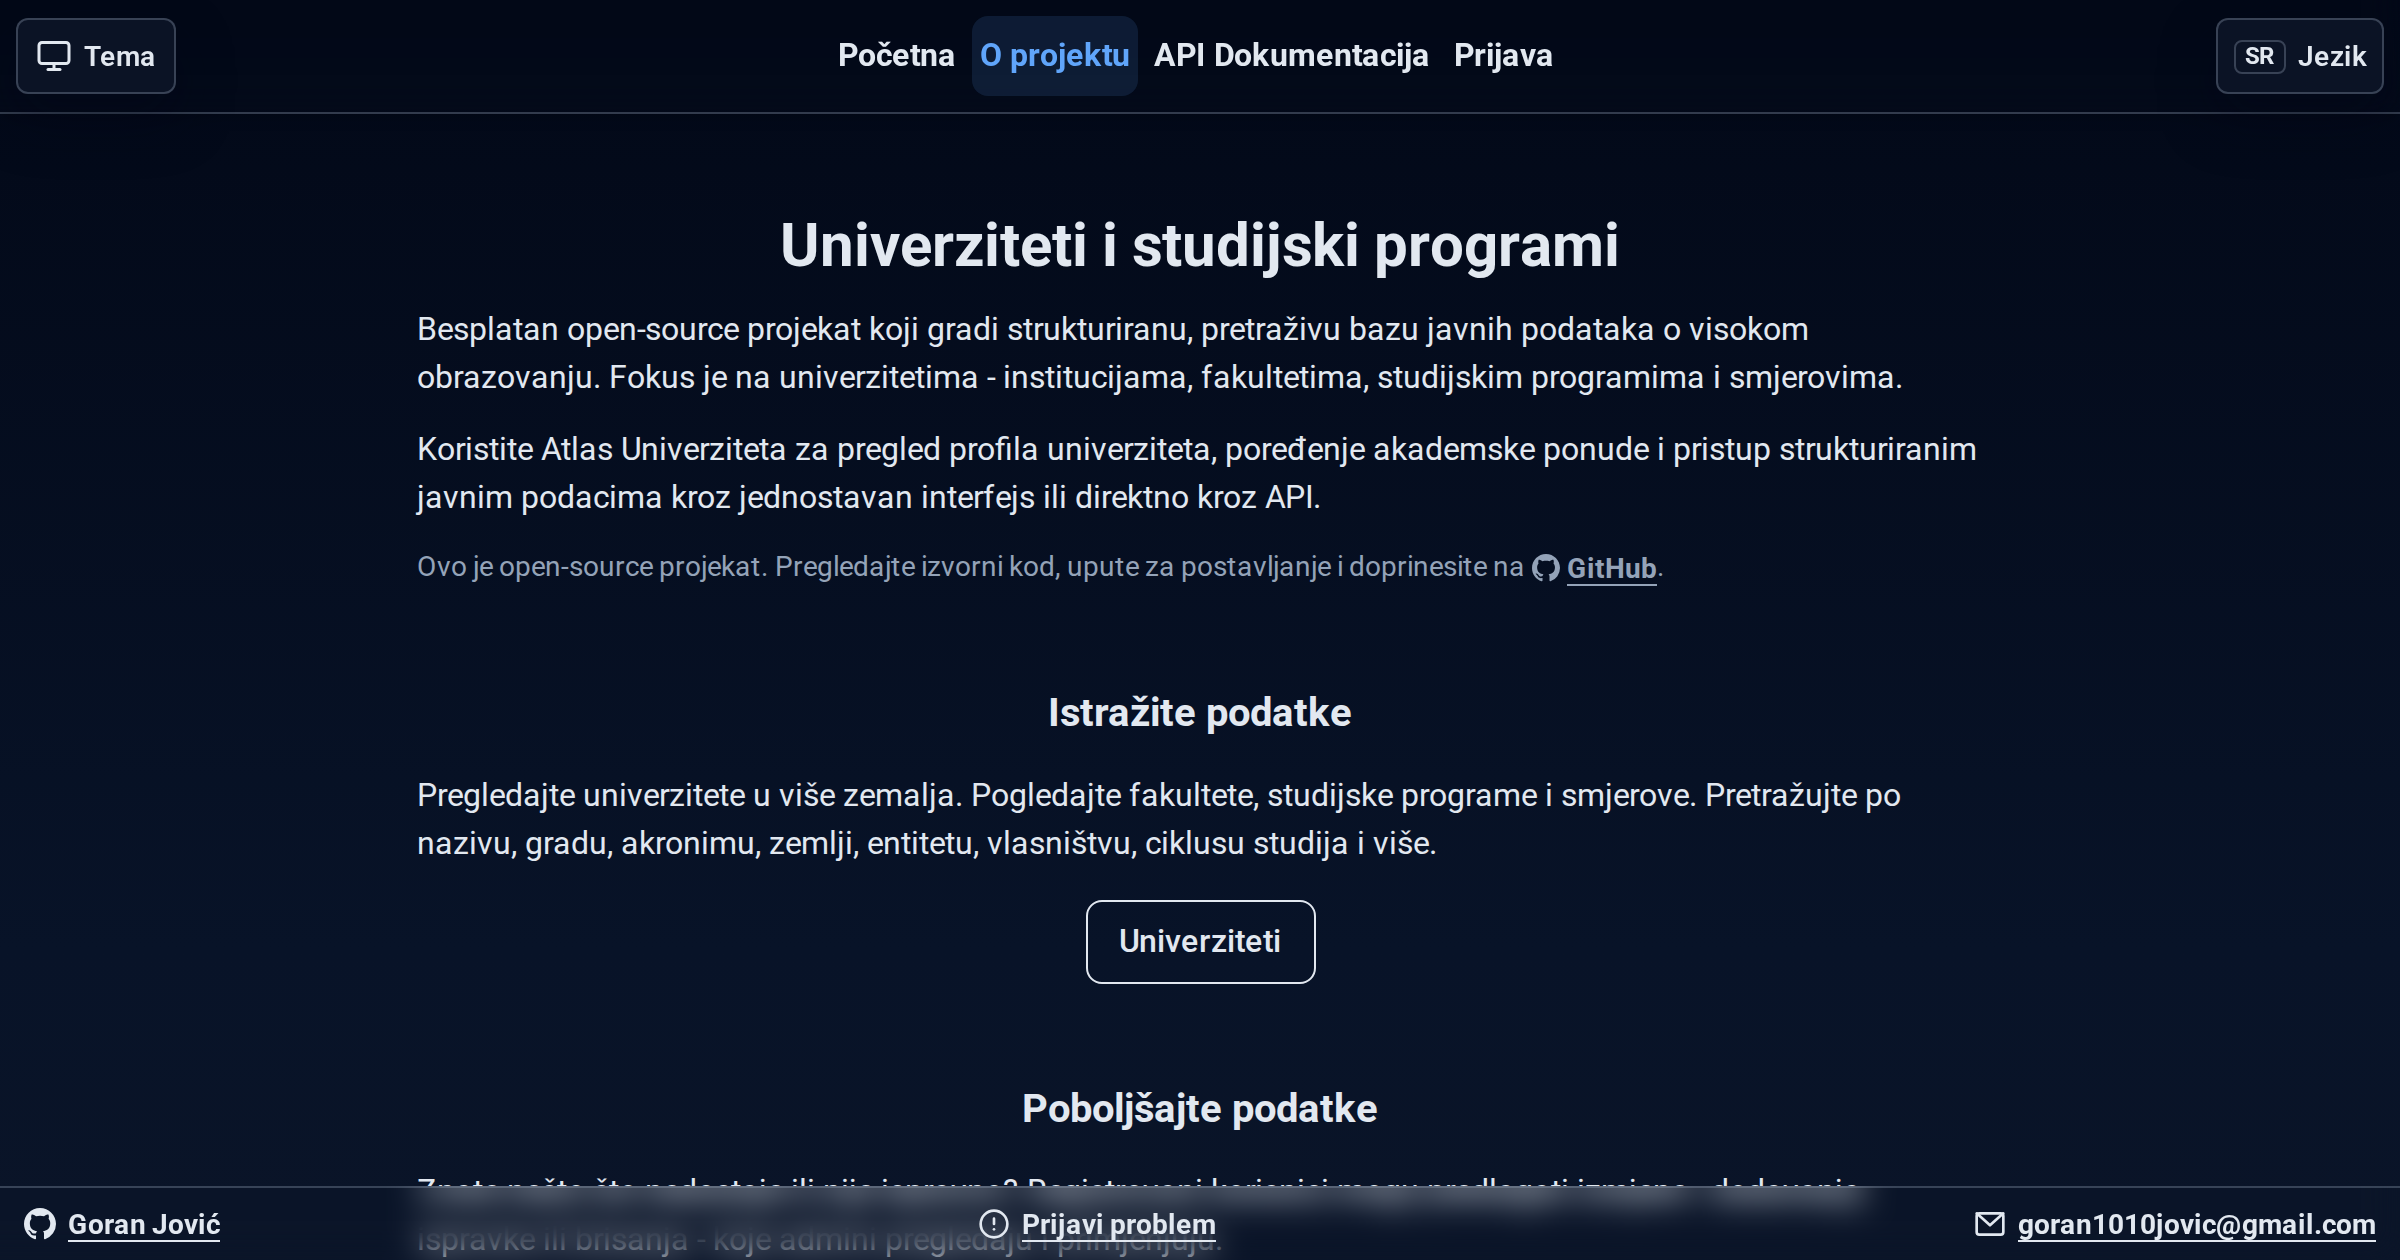
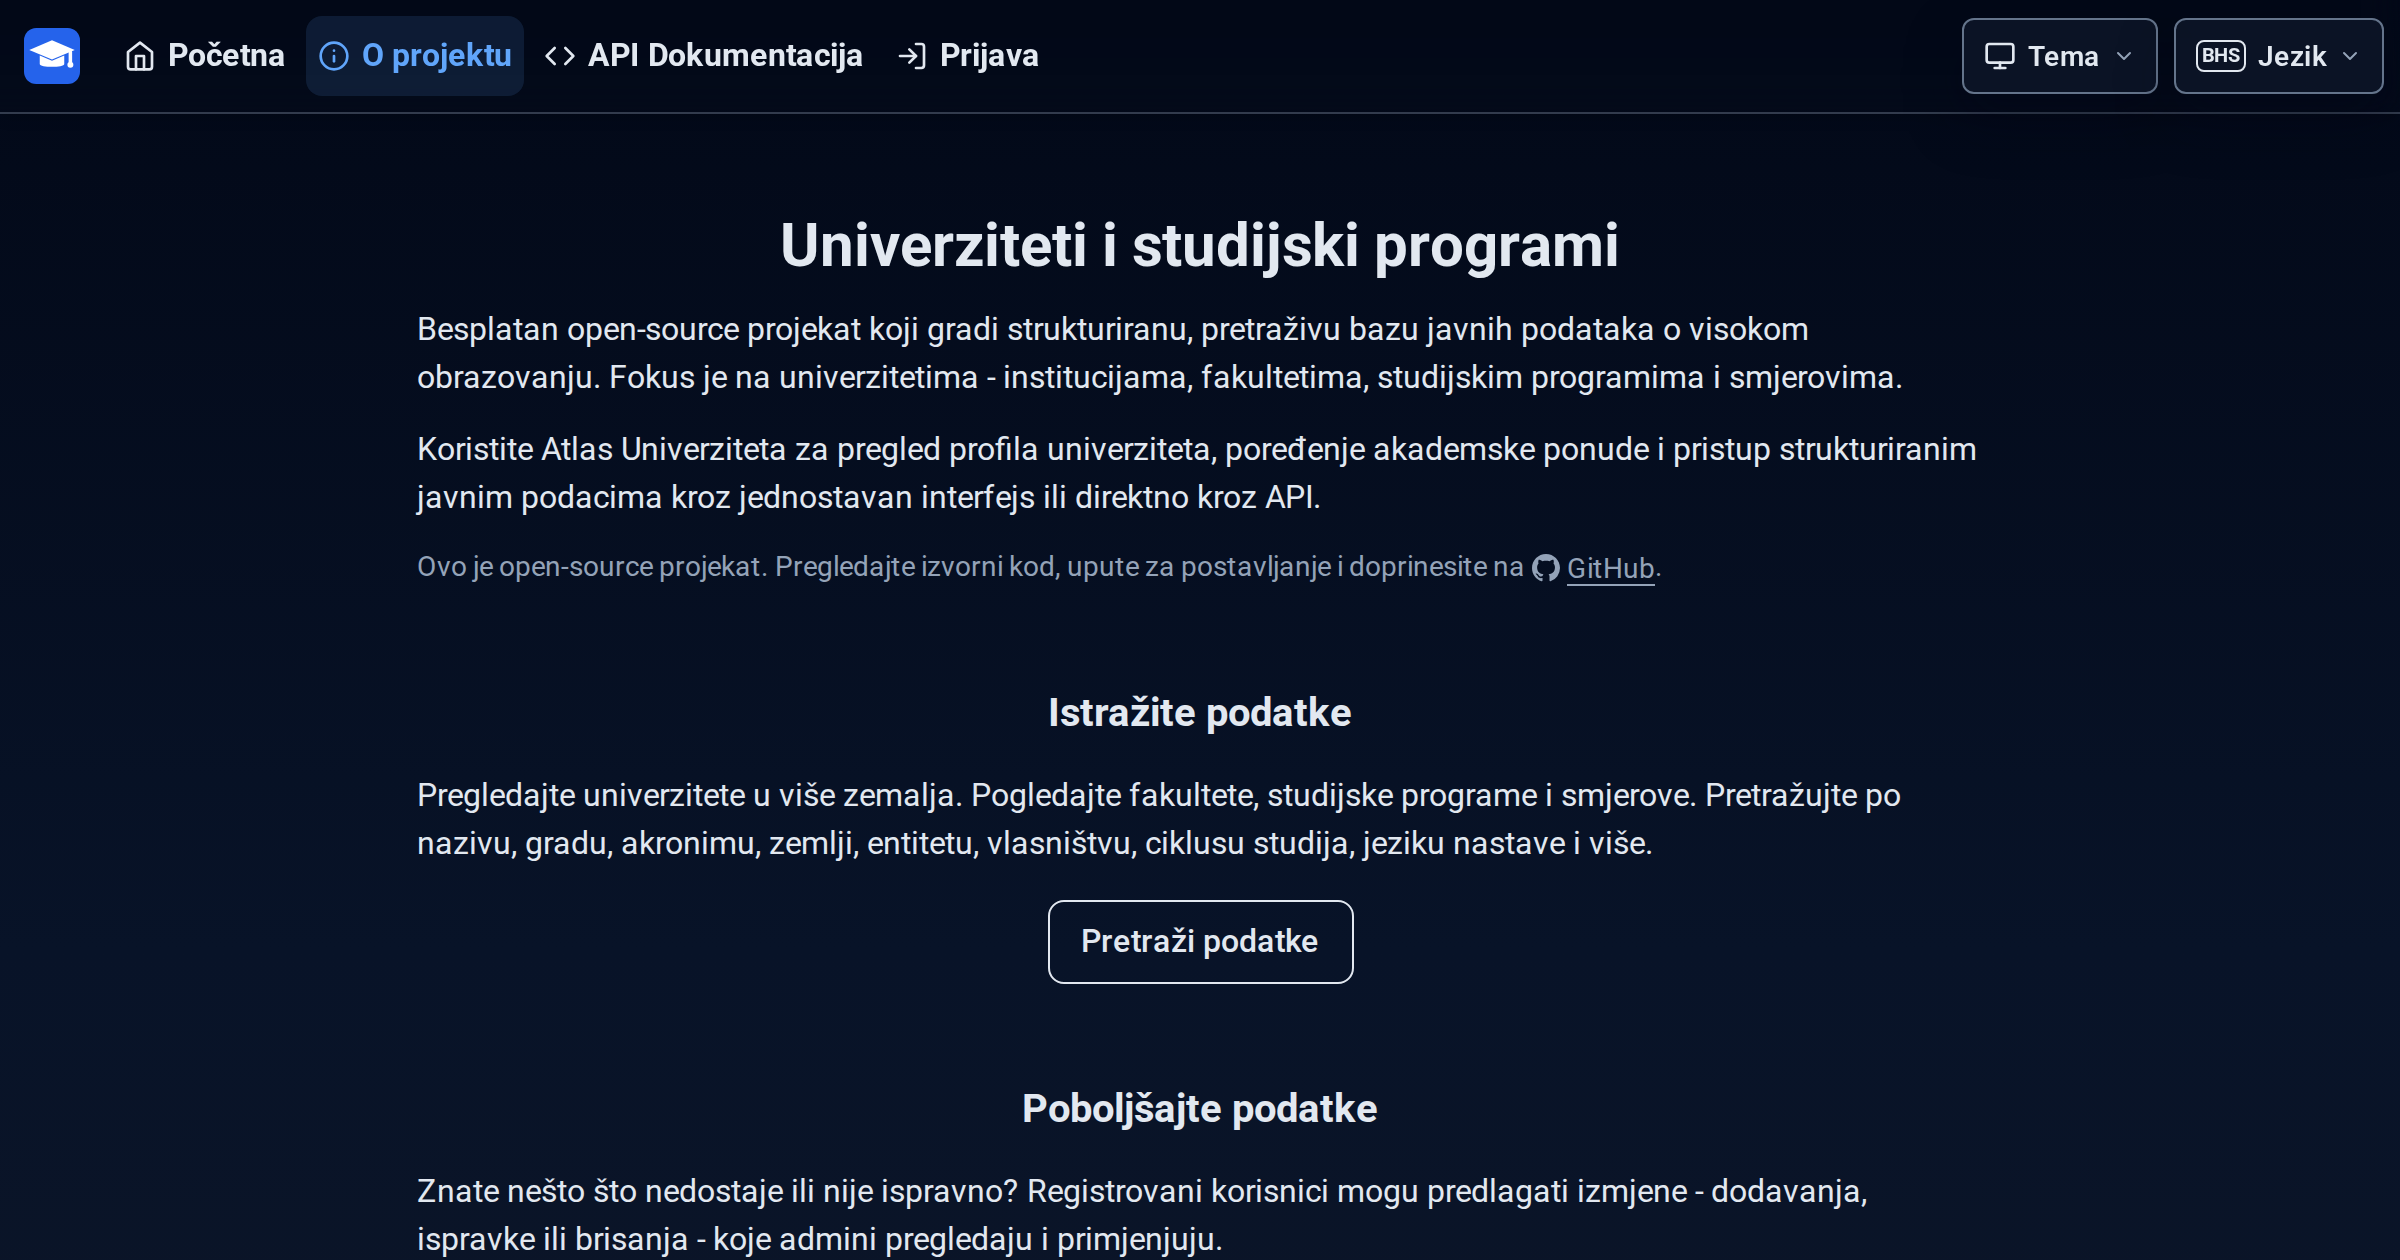
chore: recapture OG images for the new navbar, home counts and footer

diff --git a/docs/DEPLOYMENT.md b/docs/DEPLOYMENT.md
@@ -81,12 +81,12 @@ The webapp shows a code it does not know yet as the bare code, so program pages 
 The interface has one translation bundle per language in `webapp/src/locales/`; the `sr` bundle serves Bosnian, Croatian, Montenegrin and Serbian readers.
 
 1. **Bundle** - copy `en.json` to `webapp/src/locales/<code>.json` and translate every value, keeping the keys. Every bundle is typed as `en.json`, so the typecheck fails while a key is missing. Counted words have `_one`, `_two`, `_few` and `_other` forms: fill each with the form the language uses, since `Intl.PluralRules` picks one per count
-2. **Language list** - in `webapp/src/utils/setInitialLanguage.ts`, add the code to `SYSTEM_LANGUAGES`, its BCP 47 tag to `LANGUAGE_TAGS` (with the script when the bare code means another one, as `sr-Latn` does), and the browser language codes that should get it to `BUNDLE_BY_CODE`; the language select shows it as its code in capitals
+2. **Language list** - in `webapp/src/utils/setInitialLanguage.ts`, add the code to `SYSTEM_LANGUAGES`, its BCP 47 tag to `LANGUAGE_TAGS` (with the script when the bare code means another one, as `sr-Latn` does), and the browser language codes that should get it to `BUNDLE_BY_CODE`; then, in `webapp/src/components/Navbar/LanguageSwitcher.tsx`, add the short code the language chip shows to `LANGUAGE_CODES` and the language's name in its own language to `LANGUAGE_NAMES`
 3. **Load it** - import the bundle into `translations` in `webapp/src/customHooks/useLanguage.ts`
 4. **Switch notice** - add `language.switched.<code>` to every bundle
 5. **Search** - add the language's name of every program language to `LANGUAGE_NAMES` in `server/src/search/languageNames.ts`, and its ownership, study cycle and duration words to `server/src/search/aliases.ts` and `server/src/search/tokenize.ts`
 6. **Fonts** - if the language needs characters the self-hosted Roboto subsets lack, add that subset to `webapp/public/fonts/` with a `@font-face` block and its `unicode-range` in `webapp/src/styles/index.css`
-7. **Tests** - add the code to the tests for `setInitialLanguage`, `useLanguage` and the language select
+7. **Tests** - add the code to the tests for `setInitialLanguage`, `useLanguage` and `LanguageSwitcher`
 8. **Review** - have a native speaker review the bundle before it is released
 9. **Verify** - run `npm run test:all` and open every page in the new language
 
